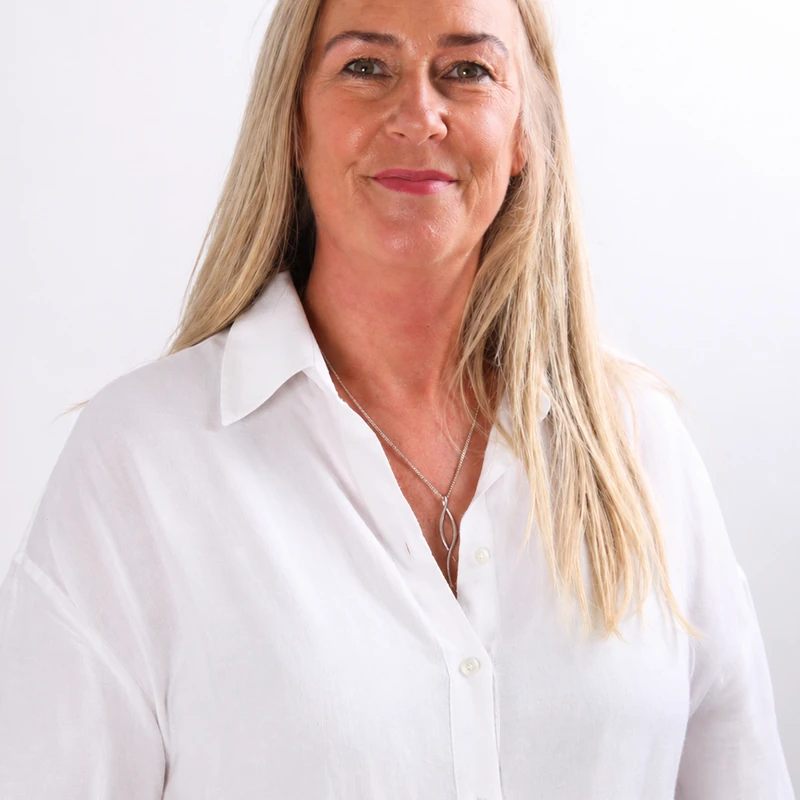
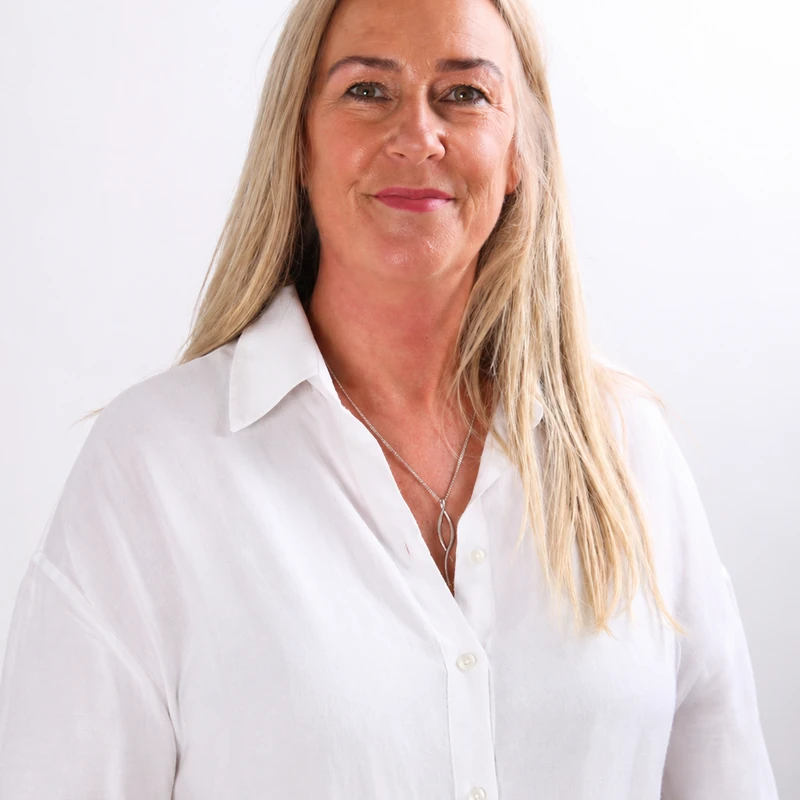
Headshot: bring face down — middle between original and prev too-high
size 1000 -> 1050, yOffset 330 -> 295. Eyes now at ~10% from top
(was 6%), eyebrows at top, hair sides preserved. Sits between the
original "face too low" and the previous "face too high". Bump
cache-bust to ?v=6.

diff --git a/app/page.tsx b/app/page.tsx
@@ -598,7 +598,7 @@ export default function HomePage() {
                 className="absolute -inset-1.5 rounded-full bg-soft-blue/40"
               />
               <img
-                src="/ruth-headshot.webp?v=5"
+                src="/ruth-headshot.webp?v=6"
                 alt="Ruth, the counsellor at Hampshire Headspace"
                 width={520}
                 height={520}

diff --git a/app/about/page.tsx b/app/about/page.tsx
@@ -46,7 +46,7 @@ export default function AboutPage() {
                 className="absolute -inset-1.5 rounded-full bg-soft-blue/40"
               />
               <img
-                src="/ruth-headshot.webp?v=5"
+                src="/ruth-headshot.webp?v=6"
                 alt="Ruth, the counsellor at Hampshire Headspace"
                 width={480}
                 height={480}
